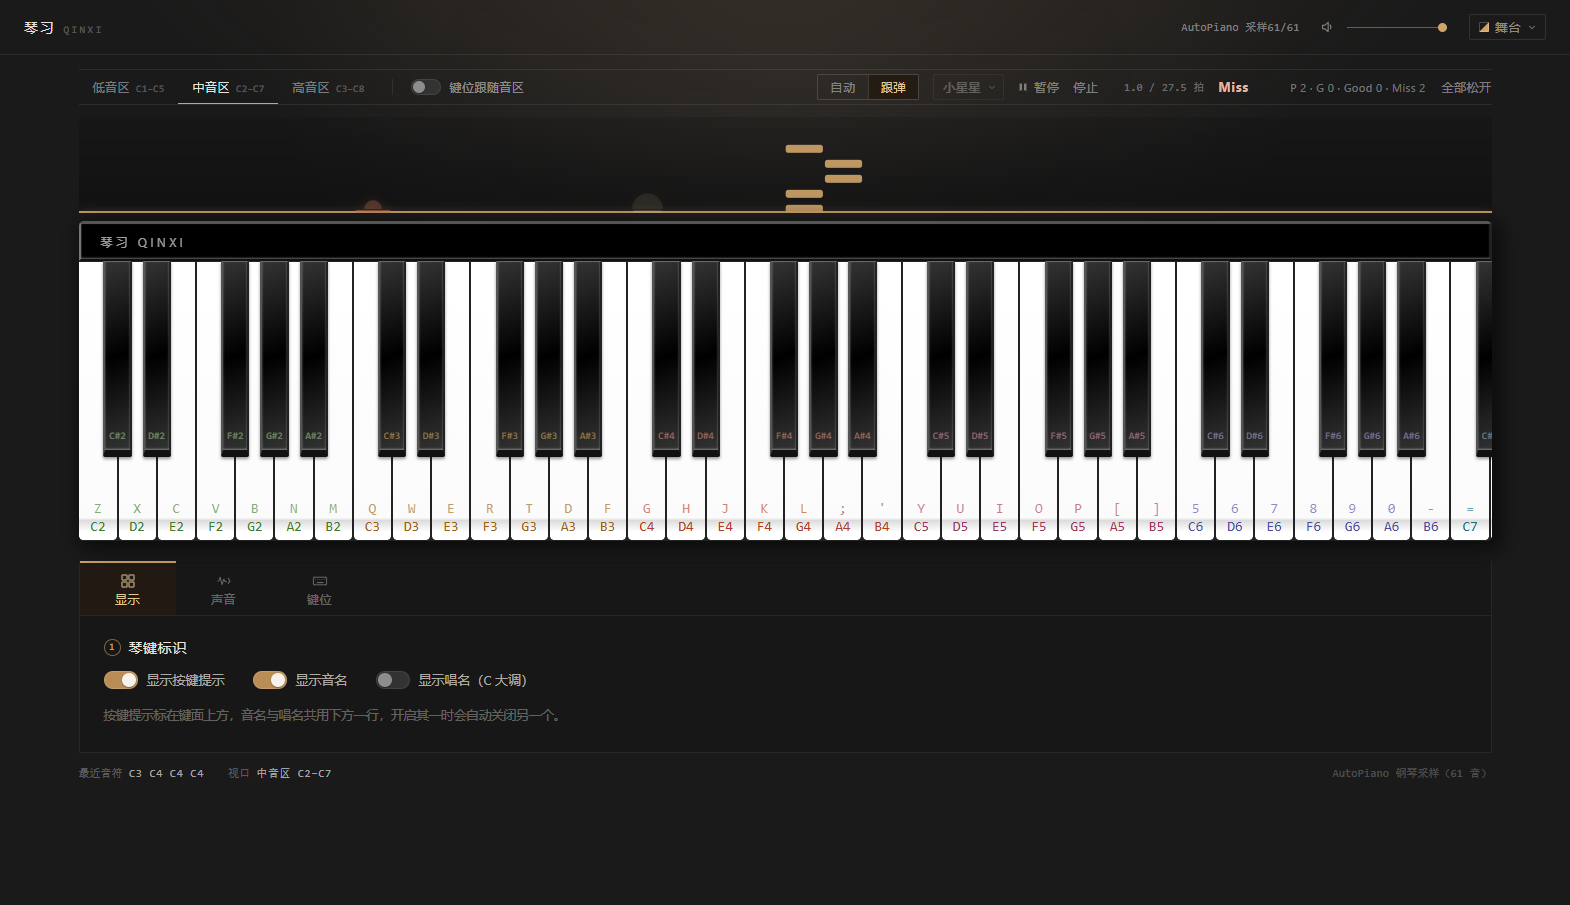
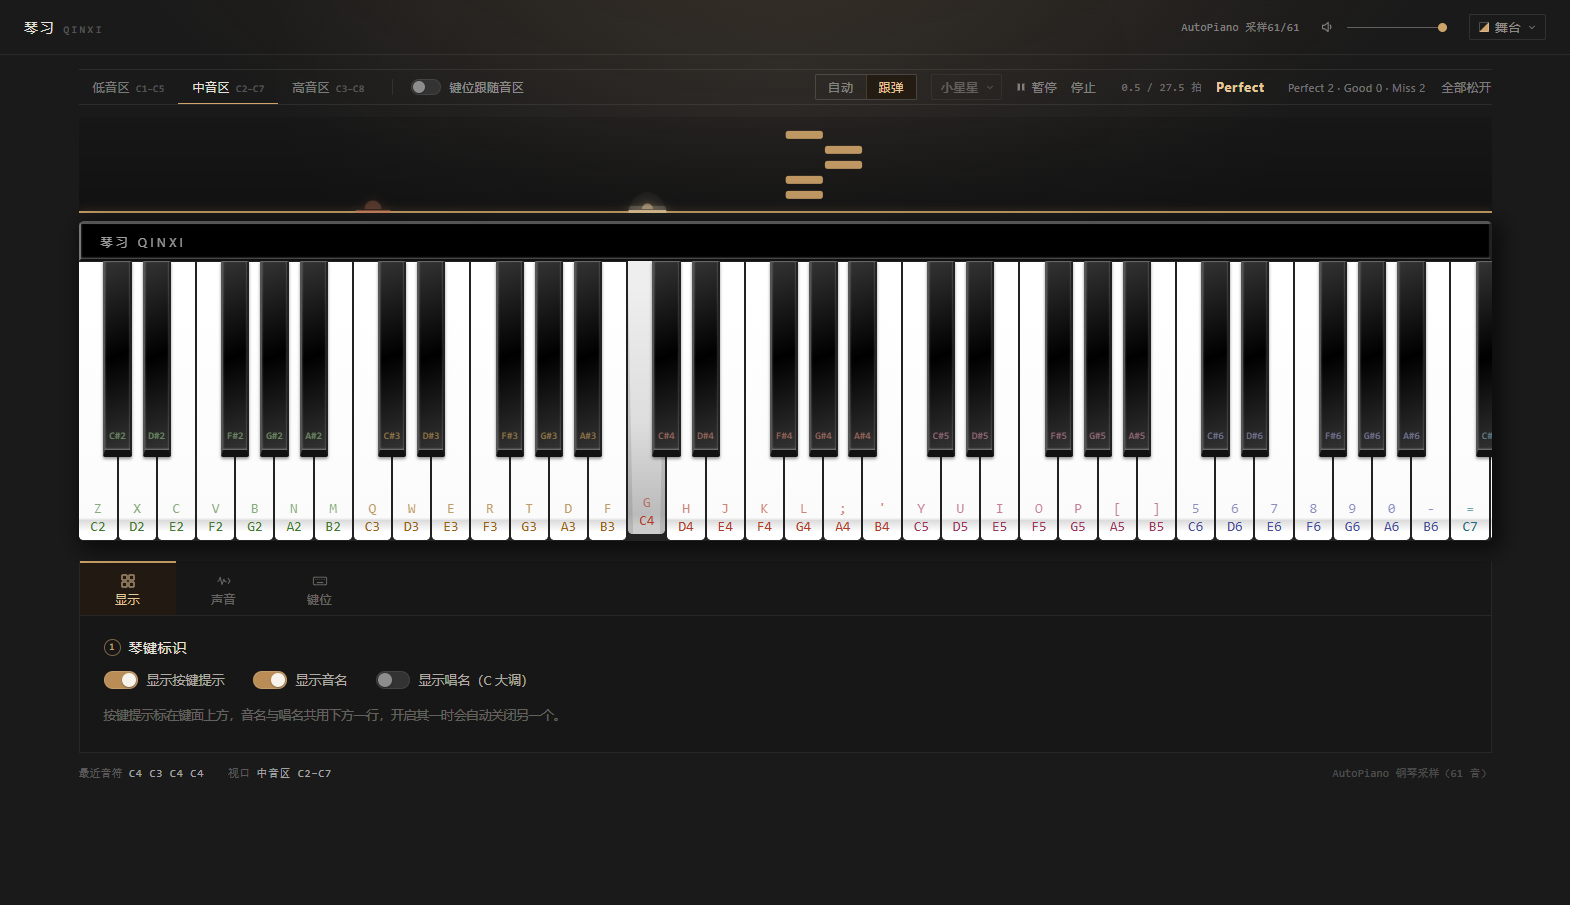
feat: 判定改为三档——Great 并入 Perfect，Good 白光
- judge.ts：±80ms 内 Perfect（原 Great 档并入）、80–140ms Good、>140ms 或错音漏按 Miss；
  Grade 收窄为 perfect/good/miss，GREAT_MS 常量删除
- 命中反馈配色：Perfect 金光、Good 白光、Miss 红光
- HUD 与结算改三档：Perfect x · Good y · Miss z，比例占谱面总音数
- 测试边界同步重写（249 项全过）；CDP 实测 HUD/结算三档正确、零 console error

diff --git a/src/App.vue b/src/App.vue
@@ -126,7 +126,7 @@ const followBpm = ref(96);
 const FOLLOW_PREROLL_SECONDS = 2;
 /** 跟弹：音符下标 → 判定等级。判定频率高，走可变对象，不走 Vue 响应式 */
 const judgedMap = new Map<number, Grade>();
-const followStats = reactive({ perfect: 0, great: 0, good: 0, miss: 0 });
+const followStats = reactive({ perfect: 0, good: 0, miss: 0 });
 const lastGrade = ref<Grade | null>(null);
 /** 弹完（或停止）后的结算：各档数量 + 占谱面总音符数的比例 */
 const followSummary = ref('');
@@ -181,7 +181,7 @@ function stopRenderLoop(): void {
 
 // ---------------------------------------------------------------- 跟弹判定
 
-const GRADE_ORDER: ReadonlyArray<Grade> = ['perfect', 'great', 'good', 'miss'];
+const GRADE_ORDER: ReadonlyArray<Grade> = ['perfect', 'good', 'miss'];
 
 /** 结算文案：各档数量 + 占谱面总音符数的百分比（错音多按会让 Miss 超过总数，照实显示） */
 function buildFollowSummary(totalNotes: number): string {
@@ -197,14 +197,13 @@ function buildFollowSummary(totalNotes: number): string {
 function resetFollowProgress(): void {
   judgedMap.clear();
   followStats.perfect = 0;
-  followStats.great = 0;
   followStats.good = 0;
   followStats.miss = 0;
   lastGrade.value = null;
   followSummary.value = '';
 }
 
-const GRADE_LABEL: Record<Grade, string> = { perfect: 'Perfect', great: 'Great', good: 'Good', miss: 'Miss' };
+const GRADE_LABEL: Record<Grade, string> = { perfect: 'Perfect', good: 'Good', miss: 'Miss' };
 
 function fmtDelta(deltaMs: number): string {
   const rounded = Math.round(deltaMs);
@@ -754,7 +753,7 @@ onBeforeUnmount(() => {
             <span class="player__beat">{{ playProgressText }}</span>
             <span v-if="playMode === 'follow' && playState !== 'idle'" class="player__judge">
               <b :class="`grade-${lastGrade ?? 'none'}`">{{ lastGrade ? GRADE_LABEL[lastGrade] : '—' }}</b>
-              <span>P {{ followStats.perfect }} · G {{ followStats.great }} · Good {{ followStats.good }} · Miss {{ followStats.miss }}</span>
+              <span>Perfect {{ followStats.perfect }} · Good {{ followStats.good }} · Miss {{ followStats.miss }}</span>
             </span>
             <span v-else-if="followSummary" class="player__judge player__judge--summary" role="status">{{ followSummary }}</span>
           </div>
@@ -1093,8 +1092,7 @@ onBeforeUnmount(() => {
 }
 
 .player__judge .grade-perfect { color: var(--qin-accent-strong); }
-.player__judge .grade-great { color: rgb(var(--qin-ink-rgb)); }
-.player__judge .grade-good { color: rgba(var(--qin-ink-rgb), 0.66); }
+.player__judge .grade-good { color: rgb(var(--qin-ink-rgb)); }
 .player__judge .grade-miss { color: var(--qin-danger-strong); }
 
 .player {

diff --git a/src/game/judge.ts b/src/game/judge.ts
@@ -9,18 +9,17 @@ import type { NoteEvent } from '@/types';
  * 与谱面里判定线附近的 `NoteEvent` 做**音高 + 时间**双重比对：
  *
  * - **音高**：只匹配同 pitch 的音符；附近没有同音高的音 → 直接 Miss（错音）；
- * - **时间**：按 |偏差| 分档（毫秒，对 96–120 BPM 的手感校准过）：
+ * - **时间**：按 |偏差| 分档（毫秒，三档，对 96–120 BPM 的手感校准过）：
  *
  * | |偏差| | 判定 |
  * | --- | --- |
- * | ≤ 40ms | Perfect |
- * | 40–80ms | Great |
+ * | ≤ 80ms | Perfect |
  * | 80–140ms | Good |
  * | > 140ms / 错音 / 漏按 | Miss |
  *
  * ## 边界约定
  *
- * 档位边界**闭区间**（40ms 整算 Perfect，80ms 整算 Great，140ms 整算 Good），
+ * 档位边界**闭区间**（80ms 整算 Perfect，140ms 整算 Good），
  * 浮点比较带 1e-9 容差 —— 单元测试用恰好在边界上的值锁死这个行为。
  *
  * ## 本模块刻意不知道的事
@@ -31,23 +30,20 @@ import type { NoteEvent } from '@/types';
  * - 不要求 notes 有序（线性扫描），但调用方传解析器的有序输出效率一致。
  */
 
-/** Perfect：偏差 ≤ 40ms */
-export const PERFECT_MS = 40;
-/** Great：偏差 ≤ 80ms */
-export const GREAT_MS = 80;
+/** Perfect：偏差 ≤ 80ms（原 Great 档已并入） */
+export const PERFECT_MS = 80;
 /** Good：偏差 ≤ 140ms；再大就是 Miss */
 export const GOOD_MS = 140;
 
 /** 浮点比较容差（拍位） */
 const EPS = 1e-9;
 
-export type Grade = 'perfect' | 'great' | 'good' | 'miss';
+export type Grade = 'perfect' | 'good' | 'miss';
 
-/** 按毫秒偏差分档。边界闭区间：±40 → Perfect，±80 → Great，±140 → Good。 */
+/** 按毫秒偏差分档。边界闭区间：±80 → Perfect，±140 → Good，之外 Miss。 */
 export function gradeForDelta(deltaMs: number): Grade {
   const abs = Math.abs(deltaMs);
   if (abs <= PERFECT_MS) return 'perfect';
-  if (abs <= GREAT_MS) return 'great';
   if (abs <= GOOD_MS) return 'good';
   return 'miss';
 }
@@ -107,7 +103,7 @@ export interface JudgedMarks {
  * 判定一次按键。
  *
  * 在**同 pitch 且未被判定过**的音符里找离 hitBeat 最近的一个：
- * - 距离在 Good 窗口（±140ms）内 → 按偏差分档（可能 Perfect / Great / Good）；
+ * - 距离在 Good 窗口（±140ms）内 → 按偏差分档（Perfect 或 Good）；
  * - 窗口内没有同 pitch 的未判定音符 → Miss（错音或按键太早 / 太晚）。
  *
  * 注意：超出 Good 窗口的按键不消耗音符 —— 音符留给「漏按清扫」去判 Miss

diff --git a/tests/judge.test.ts b/tests/judge.test.ts
@@ -5,7 +5,6 @@ import {
   collectMissed,
   gradeForDelta,
   GOOD_MS,
-  GREAT_MS,
   judgeHit,
   msToBeats,
   PERFECT_MS,
@@ -28,9 +27,6 @@ describe('gradeForDelta：分档边界（闭区间）', () => {
     [0, 'perfect'],
     [PERFECT_MS, 'perfect'],
     [-PERFECT_MS, 'perfect'],
-    [40.0001, 'great'],
-    [GREAT_MS, 'great'],
-    [-GREAT_MS, 'great'],
     [80.0001, 'good'],
     [GOOD_MS, 'good'],
     [-GOOD_MS, 'good'],
@@ -95,15 +91,15 @@ describe('judgeHit：时间判定', () => {
     expect(result.note?.startBeat).toBe(4);
   });
 
-  it('±40ms 边界内 → Perfect；±40ms 出头 → Great', () => {
+  it('±80ms 内 → Perfect（原 Great 档已并入）', () => {
     expect(hit(30).grade).toBe('perfect');
     expect(hit(-30).grade).toBe('perfect');
-    expect(hit(41).grade).toBe('great');
-    expect(hit(-41).grade).toBe('great');
+    expect(hit(41).grade).toBe('perfect');
+    expect(hit(75).grade).toBe('perfect');
+    expect(hit(-79).grade).toBe('perfect');
   });
 
-  it('±80ms 内 → Great；出头 → Good', () => {
-    expect(hit(75).grade).toBe('great');
+  it('80ms 出头 → Good', () => {
     expect(hit(81).grade).toBe('good');
     expect(hit(-85).grade).toBe('good');
   });

diff --git a/src/components/FollowCanvas.vue b/src/components/FollowCanvas.vue
@@ -210,12 +210,12 @@ function draw(): void {
     if (!geo) continue;
     const x = (geo.left + geo.width / 2) * unit - scrollLeft;
     const t = age / FLASH_SECONDS;
-    // 配色：Perfect 金光、Great / Good 白光（Good 更暗）、Miss 红光
+    // 配色：Perfect 金光、Good 白光、Miss 红光
     const color =
       hit.grade === 'perfect' ? palette.gold
       : hit.grade === 'miss' ? palette.red
       : palette.white;
-    const strength = hit.grade === 'perfect' ? 1 : hit.grade === 'great' ? 0.85 : hit.grade === 'good' ? 0.55 : 0.75;
+    const strength = hit.grade === 'perfect' ? 1 : hit.grade === 'good' ? 0.7 : 0.75;
     const alpha = (1 - t) * strength;
 
     // 判定线上的一小段亮条，向两边收

diff --git a/README.md b/README.md
@@ -11,7 +11,7 @@
 - 钢琴上方是**音符频谱**：按下即跳出柱子（含泛音），松手按指数衰减
 - 钢琴下方是**三页签控制台**：显示（键面标注）、声音（音量）、键位（C 大调布局 + 自定义 / 空置 + 映射图）
 - **自动播放内置曲目**：控制栏选曲（小星星 / 欢乐颂）→ 播放 / 暂停 / 继续 / 停止，琴键跟着声音实时按下
-- **跟弹模式**：切到「跟弹」再播放，琴键上方落下音符块，自己按键去接——音高 + 时间双重判定（Perfect / Great / Good / Miss），漏按也记 Miss
+- **跟弹模式**：切到「跟弹」再播放，琴键上方落下音符块，自己按键去接——音高 + 时间双重判定（Perfect / Good / Miss），漏按也记 Miss
 - 三套**外观主题**（舞台 / 赛博 / 中国红），右上角下拉切换并记住选择；只换背景与外壳，琴体不变
 
 > 参考项目：[AutoPiano 自由钢琴](https://www.autopiano.cn/)（[Wscats/piano](https://github.com/Wscats/piano)）。
@@ -199,8 +199,7 @@ docs/screenshots/  界面截图（PR 用）
 
 | \|偏差\| | 判定 |
 | --- | --- |
-| ≤ 40ms | Perfect |
-| 40–80ms | Great |
+| ≤ 80ms | Perfect |
 | 80–140ms | Good |
 | > 140ms / 错音 / 漏按 | Miss |
 
@@ -220,12 +219,11 @@ docs/screenshots/  界面截图（PR 用）
   （`NoteEvent.hand`：右手 = 主题强调色、左手 = 亮墨色），谱面没有 hand 信息时回落按黑白键区分
   （黑键条加亮边），已判定的沉成暗灰。
 - **命中反馈**：判定完成后判定线上对应键的位置闪一下——线上一小段亮条向两边收 + 一个向上散开的
-  光弧，0.38s 内衰减。**配色分档**：Perfect 金光（主题强调亮色）、Great / Good 白光（Good 更暗）、
-  Miss 红光（主题危险色）。
+  光弧，0.38s 内衰减。**配色分档**：Perfect 金光（主题强调亮色）、Good 白光、Miss 红光（主题危险色）。
 - 判定结果同步打到控制台：`[琴习·判定] Perfect C4 Δ-12ms` / `MISS（错音）` / `MISS（漏按）@8.5拍`，
   控制栏 HUD 显示最近判定与四档计数。
 - **弹完结算**：播完（或停止）后 HUD 显示各档数量与占谱面总音符数的比例，
-  如 `跟弹统计（共 45 音）：Perfect 41 (91.1%) · Great 2 (4.4%) · Good 0 (0.0%) · Miss 2 (4.4%)`；
+  如 `跟弹统计（共 45 音）：Perfect 43 (95.6%) · Good 0 (0.0%) · Miss 2 (4.4%)`；
   乱按的错音也计入 Miss，所以 Miss 占比可能超过漏掉的音数。
 
 ![跟弹模式](docs/screenshots/follow-notes.png)
@@ -392,7 +390,7 @@ npm run test
 - `tests/legacyTone.test.ts`：软削波曲线（端点归一、奇对称、单调、驱动量）
 - `tests/gain.test.ts`：峰值检测、逐音归一化、包络衰减时常数、总线限幅与下压曲线
 - `tests/labels.test.ts`：唱名映射（含黑键升号、跨八度）、三档音名模式、黑键提示拆行
-- `tests/judge.test.ts`：跟弹判定（分档边界闭区间、时间↔拍位换算精度、错音 / 太早太晚 / 重复按键、
+- `tests/judge.test.ts`：跟弹判定（三档分档边界闭区间、时间↔拍位换算精度、错音 / 太早太晚 / 重复按键、
   同音多音符取最近、和弦单音消耗、漏按清扫窗口与边界、BPM 换算）
 - `tests/activeNotes.test.ts`：琴键高亮数据源（起拍 / 收拍边界、和弦、延长音、浮点容差、空谱）与集合浅比较
 - `tests/transport.test.ts`：拍位 ↔ 秒换算（60 / 80 / 90 / 120 BPM、可逆性）、前瞻窗边界、绝对时刻与唤醒时刻无关、
